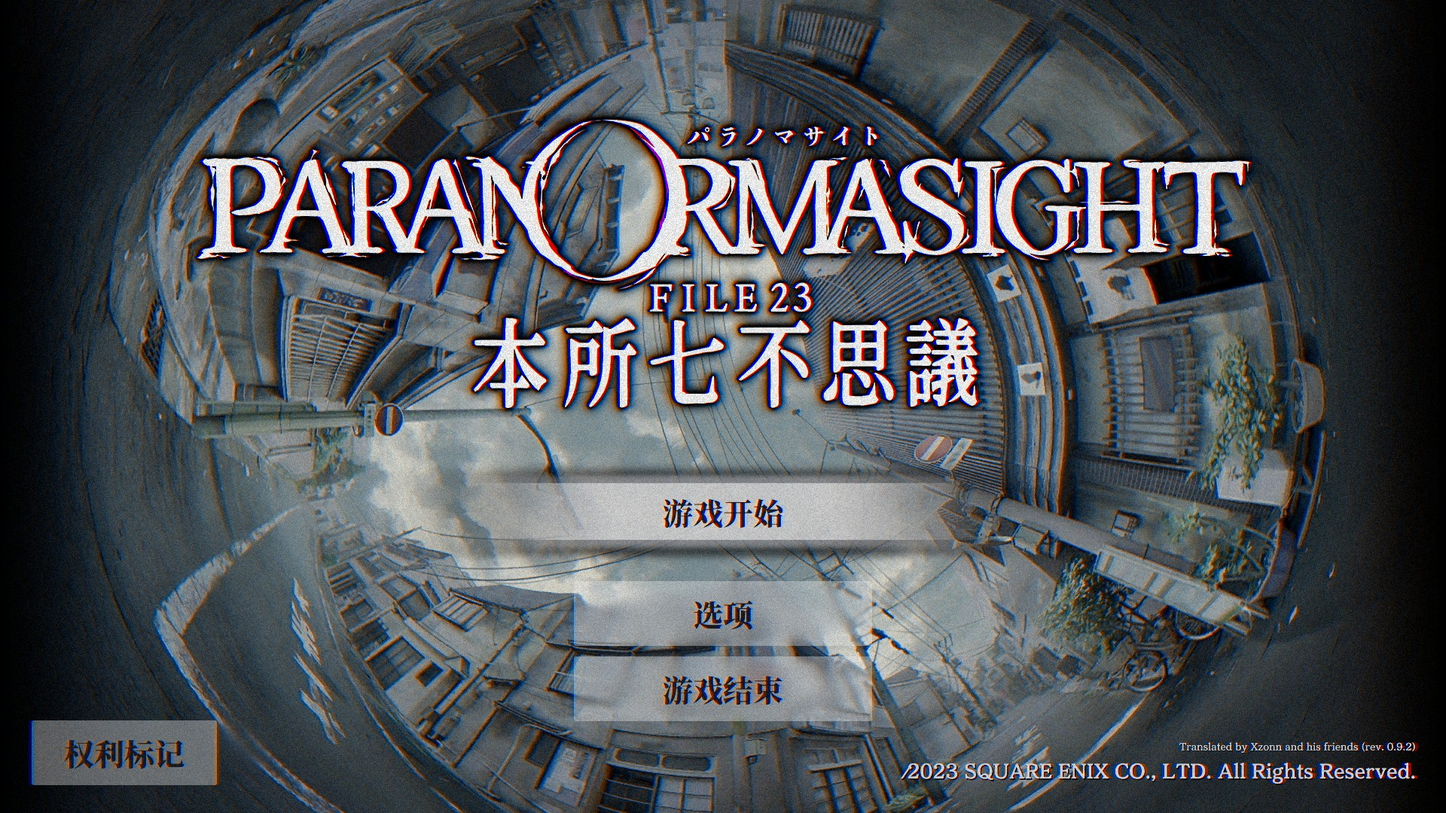
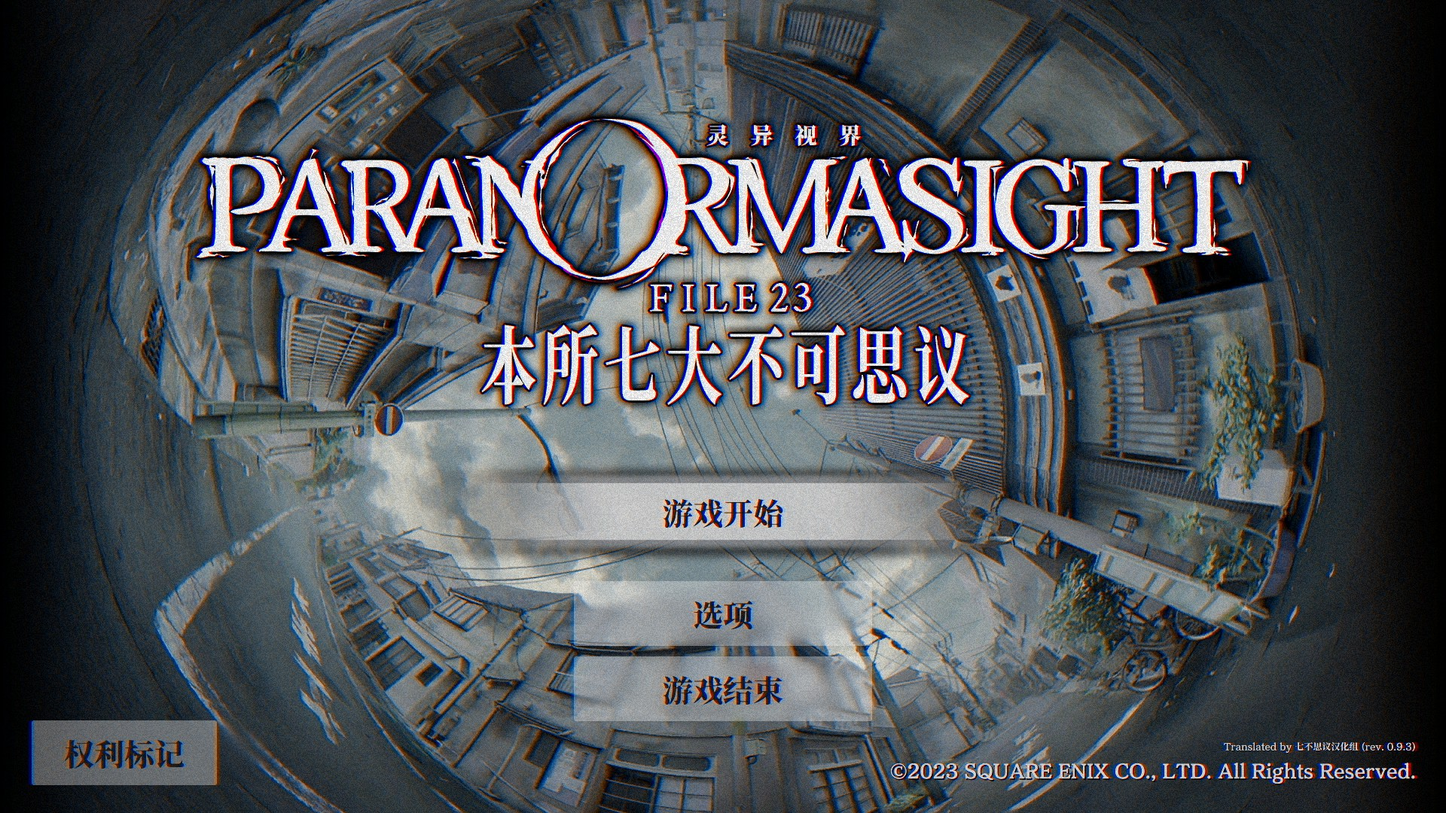
Rev. 0.9.3

diff --git a/README.md b/README.md
@@ -8,11 +8,14 @@
 本补丁基于 Steam 版制作，理论上可用于其他平台版本，但未经测试。
 
 ## 更新历史
-- 0.9.1（2023-06-20）：
-  - 在标题页面新增了版本号标识。
+- 0.9.3（2023-06-29）：
+  - 增加了自制的中文Logo。
+  - 更新了字库，修复了几处缺字的问题。
 - 0.9.2（2023-06-23）：
   - 修改了游戏开始时询问名字的流程，使其更合理。
   - 游戏中需要输入名字的地方现在可以识别简体中文和拼音。**注意：由于存储空间的原因，使用补丁后输入假名会被视为错误答案，可改用日文汉字或罗马音输入。**（0.9.1版本由于代码原因，实际上未实现此功能。）
+- 0.9.1（2023-06-20）：
+  - 在标题页面新增了版本号标识。
 
 ## 使用方式
 请下载补丁，然后将补丁中的文件解压到游戏文件夹，并覆盖对应的文件。若为开发版本，请分别下载字体补丁（`patch-font.zip`）和文本补丁（`patch-text.zip`）。如果应用补丁时未提示覆盖文件夹，请确认补丁解压的位置是否正确。在游戏中需要选择“日语”作为语言。
@@ -21,7 +24,7 @@
 - **由于游戏本身的限制，一些字符无法输入到文本框中。游戏开始阶段输入名字时，请尽可能重新输入并确认，以免游戏直接读取Steam昵称导致无法输入。如果您已经遇到了这个问题，请尝试暂时修改Steam昵称。**
 
 ## 相关链接
-- **[>>> 0.9.2 版本补丁下载地址 <<<](https://github.com/Xzonn/ParanormasightChsLocalization/releases/download/0.9.2/patch-0.9.2.zip)**
+- **[>>> 0.9.3 版本补丁下载地址 <<<](https://github.com/Xzonn/ParanormasightChsLocalization/releases/download/0.9.3/patch-0.9.3.zip)**
 - [开发版本补丁下载](https://github.com/Xzonn/ParanormasightChsLocalization/releases/tag/publish)
 - [补丁生成工具](https://github.com/Xzonn/ParanormasightChsLocalizationHelper)
 - [翻译项目网站](https://weblate.xzonn.top/projects/paranormasight/)
